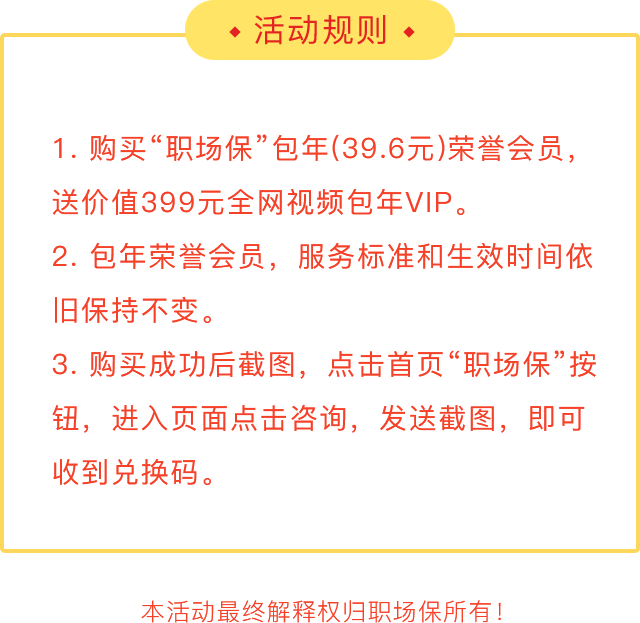
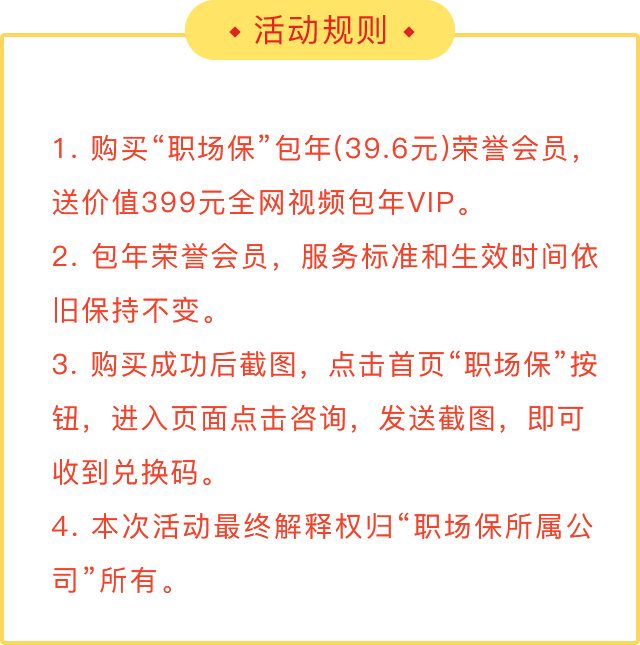
debug

diff --git a/application/wechat/view/active01/vip_video.html b/application/wechat/view/active01/vip_video.html
@@ -48,7 +48,7 @@
 			.video-vip-rules{
 				display: block;
 				width: 8.533rem;
-				height: 8.306rem;
+				height: 8.6rem;
 				margin: 0 auto;
 				box-sizing: border-box;
 				padding-top: 0.4rem;
